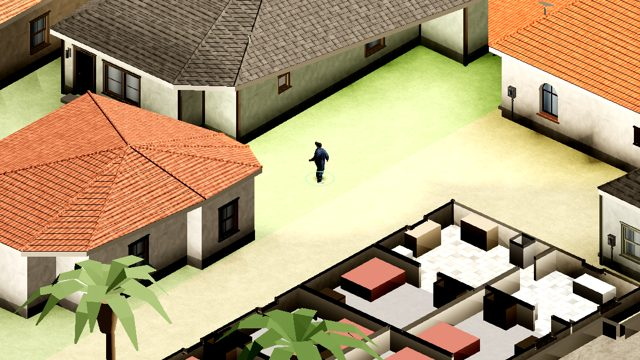
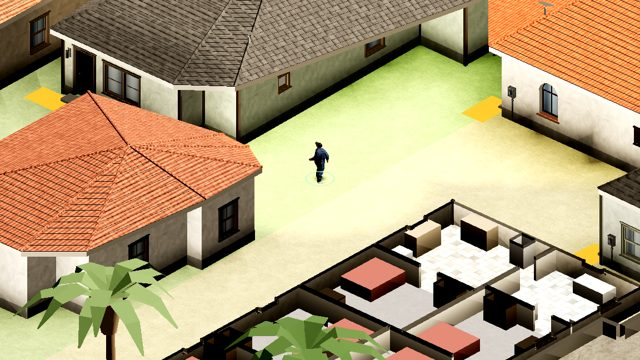
GP1/GP2/LT3/CV1: faster run, gentler needs, caught people give up, search bodies, doormats
From Phil's playtest:
- Run is 5 m/s (was a 3.5 m/s jog, the same speed as anyone fleeing you).
  A full breath lasts ~30 s of running and comes back faster.
- Hunger and thirst drain about half as fast.
- A small cut stops bleeding by itself after ~2 minutes; deep and bullet
  wounds still need a bandage.
- Someone running from you stops for 8 s when you catch them.
- Anyone knocked out or dead can be searched (E > Search their pockets):
  their cash and a seeded roll of what they carry (cops: gun and ammo,
  dealers: weed and pills) show in the bag window.
- A glowing doormat marks the front door of buildings near you and of the
  ones the cutaway cuts, and cut houses keep their door at full height.
- New tips at a front door (how to get in and loot, flats too) and next
  to someone who's down.

Checks: new verify_gameplay_feel and verify_loot_apartment (flats were
already lootable: 5/5 broken into and searched) PASS; needs, stamina and
play_modes updated to the new rates; full suite 0 failures; album
3d_spanish_house approved.

Claude-Session: https://claude.ai/code/session_01GhwX2iZQCrjFDTA2VqL7dk

diff --git a/BUGS.md b/BUGS.md
@@ -14,9 +14,6 @@ Severity: **high** = breaks a game or loses progress · **medium** = clearly wro
 | ID | Severity | What happens | Where | Found by |
 |----|----------|--------------|-------|----------|
 | BUG-16 | ? (Phil) | "A bug of the player placement": details still needed from Phil (where you start, or where you appear after loading/sleeping?). | ? | Phil |
-| BUG-17 | medium (Phil) | You can't catch a fleeing person: your run is 3.5 m/s, exactly their flee jog (3.5 m/s), and you're winded after ~14 s of running. | `player_input_system.gd` RUN_SPEED, `stamina.gd` | Phil |
-| BUG-18 | medium (Phil) | Hungry and thirsty too fast: hunger runs low after ~75 real minutes and thirst after ~45. | `needs_system.gd` | Phil |
-| BUG-19 | medium (Phil) | Wounded too easily: every cut bleeds, and your bleeding never stops by itself (other people's stops after 75 s). | `combat_system.gd`, `wound_system.gd` | Phil |
 | BUG-20 | low (Phil) | Dark spots where there is no light look strange and unnatural (probably the same family as BUG-7). | night lighting | Phil |
 | BUG-15 | medium | At rush hour (08:00) one tick now and then takes 20-28 ms, a small stutter. It comes from the people's daily-routine planner (`NPCScheduleSystem`, up to 27 ms in one tick) when many people re-plan at once, on top of traffic (~11 ms). `verify_sim_perf` measures a real rush hour since BUG-13, so it now passes or fails by chance (main: 19.4 ms pass, 23.5 ms fail). Spread the re-plans over more ticks. | `core/systems/npc_schedule_system.gd` | `verify_sim_perf` |
 | BUG-9 | low (to check on Phil's PC) | In the shop (`--store` picture) a dark curved band runs across the shop floor, under the player. It could be a curved wall drawn at floor height, or a drawing glitch. | shop interior / cutaway | album `shop_counter` |
@@ -37,6 +34,9 @@ Severity: **high** = breaks a game or loses progress · **medium** = clearly wro
 
 | ID | What it was | Fix | Guarded by |
 |----|-------------|-----|-----------|
+| BUG-19 | Wounded too easily: your bleeding never stopped by itself. | A laceration clots by itself after ~2 real minutes; deep and bullet wounds still need a bandage | `verify_gameplay_feel` |
+| BUG-18 | Hungry and thirsty too fast. | Hunger 0.3/day (~2.5 h of play), thirst 0.55/day (~1.5 h) | `verify_needs`, `verify_gameplay_feel` |
+| BUG-17 | You couldn't catch a fleeing person (your run = their jog, winded after ~14 s). | Run 5 m/s, a full breath ~30 s, breath comes back faster; someone you catch stops for 8 s | `verify_gameplay_feel`, `verify_stamina` |
 | BUG-13 | `verify_sim_perf` measured a freshly placed city without cars, so it missed the real rush-hour cost. | Cars are on the streets and the city runs from 07:00 to 08:00 before the rush hour is measured (now 3.1-3.3 ms, as in the soak); limits 1.0 / 4.0 / 2.5 ms | `verify_sim_perf` |
 | BUG-4 | The N map's "Find me" centred on you even at the city's edge: up to half the map was empty dark space. | `city_map_view.gd`: the view stays inside the city when centring, zooming and dragging | album `city_map` |
 | BUG-3 | The N map window opened over the top-left info panel. | `hud.gd`: opens right of the panel | album `city_map` |
